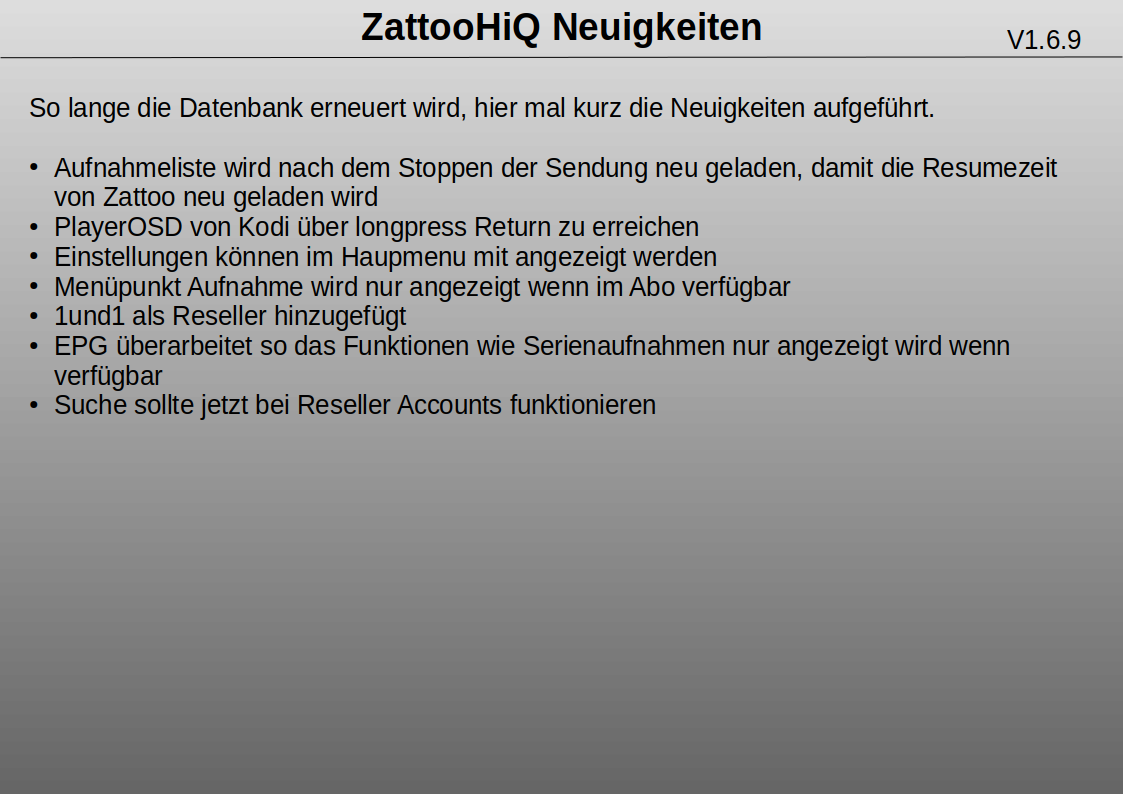
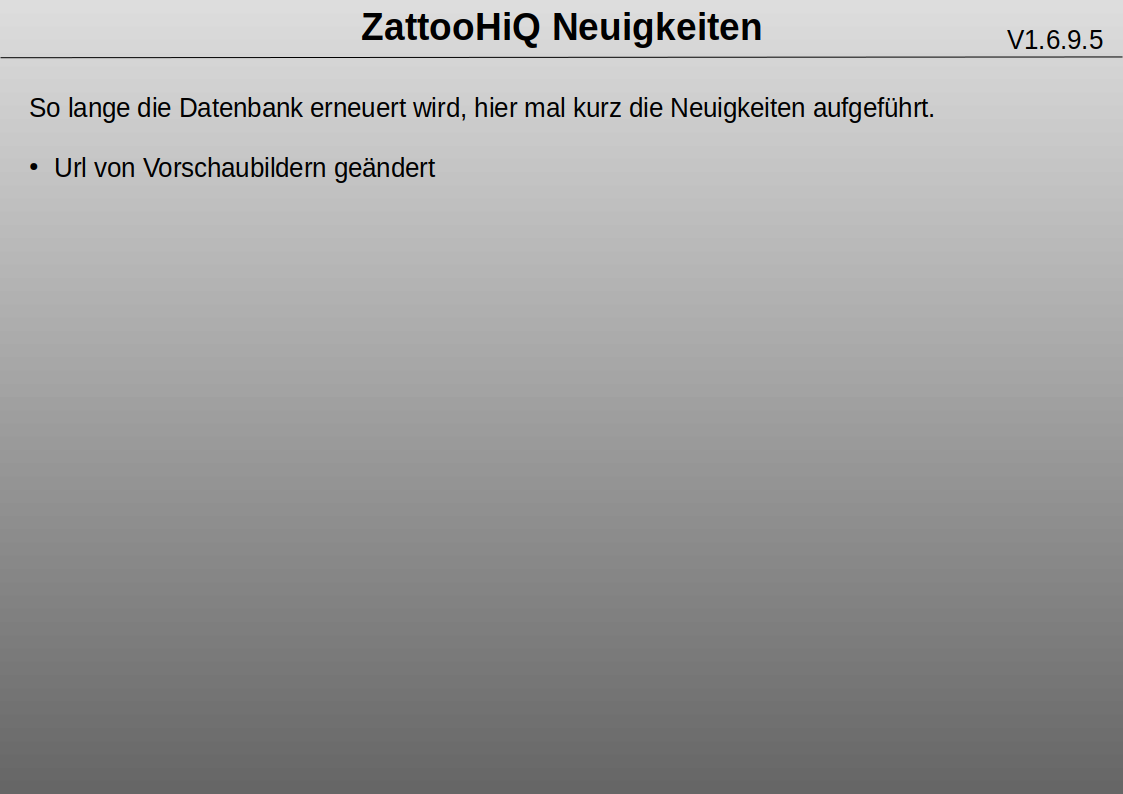
v1.6.9.5

Changed region(s): [[0.0312, 0.1814, 0.935, 0.5441], [0.9662, 0.0302, 0.9973, 0.0605]]

diff --git a/plugin.video.zattooHiQ-2/resources/zattooDB.py b/plugin.video.zattooHiQ-2/resources/zattooDB.py
@@ -96,7 +96,9 @@ class reloadDB(xbmcgui.WindowXMLDialog):
             os.remove(os.path.join(profilePath, 'account.cache'))
             #os.remove(os.path.join(profilePath, 'apicall.cache'))
             DB.zapiSession()
-                        
+            DB._createTables()
+            #xbmcgui.Dialog().ok(__addon__.getAddonInfo('name'), local(24074))
+            
         except:
             pass
     #DB.zapi.AccountData = None
@@ -234,7 +236,7 @@ class ZattooDB(object):
       c.execute('CREATE INDEX start_date_idx ON programs(start_date)')
       c.execute('CREATE INDEX end_date_idx ON programs(end_date)')
       
-      c.execute('CREATE TABLE updates(id INTEGER, date TEXT, type TEXT, PRIMARY KEY (id) )')
+      c.execute('CREATE TABLE updates(id INTEGER, date TIMESTAMP, type TEXT, PRIMARY KEY (id) )')
       #c.execute('CREATE TABLE playing(channel TEXT, start_date TIMESTAMP, action_time TIMESTAMP, current_stream INTEGER, streams TEXT, PRIMARY KEY (channel))')
       c.execute('CREATE TABLE showinfos(showID INTEGER, info TEXT, PRIMARY KEY (showID))')
       c.execute('CREATE TABLE playing(channel TEXT, showID TEXT, current_stream INTEGER, streams TEXT, PRIMARY KEY (channel))')
@@ -257,7 +259,7 @@ class ZattooDB(object):
     if rebuild == False:
       #date = datetime.date.today().strftime('%Y-%m-%d')
       date = datetime.date.today()
-      debug ("date: "+str(date))
+      #debug ("date: "+str(date))
       c.execute('SELECT * FROM updates WHERE date=? AND type=? ', [date, 'channels'])
       if len(c.fetchall())>0:
         c.close()
@@ -369,7 +371,8 @@ class ZattooDB(object):
                 #debug ('Programm: '+str(cid)+' '+str(program))
        
                 if program['i'] != None:
-                  image = "http://images.zattic.com/" + program['i']
+                  image = "https://images.zattic.com/cms/" + program['i_t'] + "/format_480x360.jpg"
+                  #https://images.zattic.com/cms/64ab6db7f62b325f4148/original.jpg
                   #http://images.zattic.com/system/images/6dcc/8817/50d1/dfab/f21c/format_480x360.jpg
                 else: image = ""
     

diff --git a/plugin.video.zattooHiQ/resources/zattooDB.py b/plugin.video.zattooHiQ/resources/zattooDB.py
@@ -96,7 +96,9 @@ class reloadDB(xbmcgui.WindowXMLDialog):
             os.remove(os.path.join(profilePath, 'account.cache'))
             #os.remove(os.path.join(profilePath, 'apicall.cache'))
             DB.zapiSession()
-                        
+            DB._createTables()
+            #xbmcgui.Dialog().ok(__addon__.getAddonInfo('name'), local(24074))
+            
         except:
             pass
     #DB.zapi.AccountData = None
@@ -234,7 +236,7 @@ class ZattooDB(object):
       c.execute('CREATE INDEX start_date_idx ON programs(start_date)')
       c.execute('CREATE INDEX end_date_idx ON programs(end_date)')
       
-      c.execute('CREATE TABLE updates(id INTEGER, date TEXT, type TEXT, PRIMARY KEY (id) )')
+      c.execute('CREATE TABLE updates(id INTEGER, date TIMESTAMP, type TEXT, PRIMARY KEY (id) )')
       #c.execute('CREATE TABLE playing(channel TEXT, start_date TIMESTAMP, action_time TIMESTAMP, current_stream INTEGER, streams TEXT, PRIMARY KEY (channel))')
       c.execute('CREATE TABLE showinfos(showID INTEGER, info TEXT, PRIMARY KEY (showID))')
       c.execute('CREATE TABLE playing(channel TEXT, showID TEXT, current_stream INTEGER, streams TEXT, PRIMARY KEY (channel))')
@@ -257,7 +259,7 @@ class ZattooDB(object):
     if rebuild == False:
       #date = datetime.date.today().strftime('%Y-%m-%d')
       date = datetime.date.today()
-      debug ("date: "+str(date))
+      #debug ("date: "+str(date))
       c.execute('SELECT * FROM updates WHERE date=? AND type=? ', [date, 'channels'])
       if len(c.fetchall())>0:
         c.close()
@@ -369,7 +371,8 @@ class ZattooDB(object):
                 #debug ('Programm: '+str(cid)+' '+str(program))
        
                 if program['i'] != None:
-                  image = "http://images.zattic.com/" + program['i']
+                  image = "https://images.zattic.com/cms/" + program['i_t'] + "/format_480x360.jpg"
+                  #https://images.zattic.com/cms/64ab6db7f62b325f4148/original.jpg
                   #http://images.zattic.com/system/images/6dcc/8817/50d1/dfab/f21c/format_480x360.jpg
                 else: image = ""
     

diff --git a/plugin.video.zattooHiQ-2/plugin.py b/plugin.video.zattooHiQ-2/plugin.py
@@ -966,6 +966,7 @@ def search_show(addon_uri, addon_handle, search):
 
 
 def showPreview(popularList=''):
+  xbmc.executebuiltin("Dialog.Close(all, true)")
   from resources.channelspreview import ChannelsPreview
   preview = ChannelsPreview()
   if popularList=='popular': preview.createPreview('popular')

diff --git a/plugin.video.zattooHiQ/plugin.py b/plugin.video.zattooHiQ/plugin.py
@@ -966,6 +966,7 @@ def search_show(addon_uri, addon_handle, search):
 
 
 def showPreview(popularList=''):
+  xbmc.executebuiltin("Dialog.Close(all, true)")
   from resources.channelspreview import ChannelsPreview
   preview = ChannelsPreview()
   if popularList=='popular': preview.createPreview('popular')
